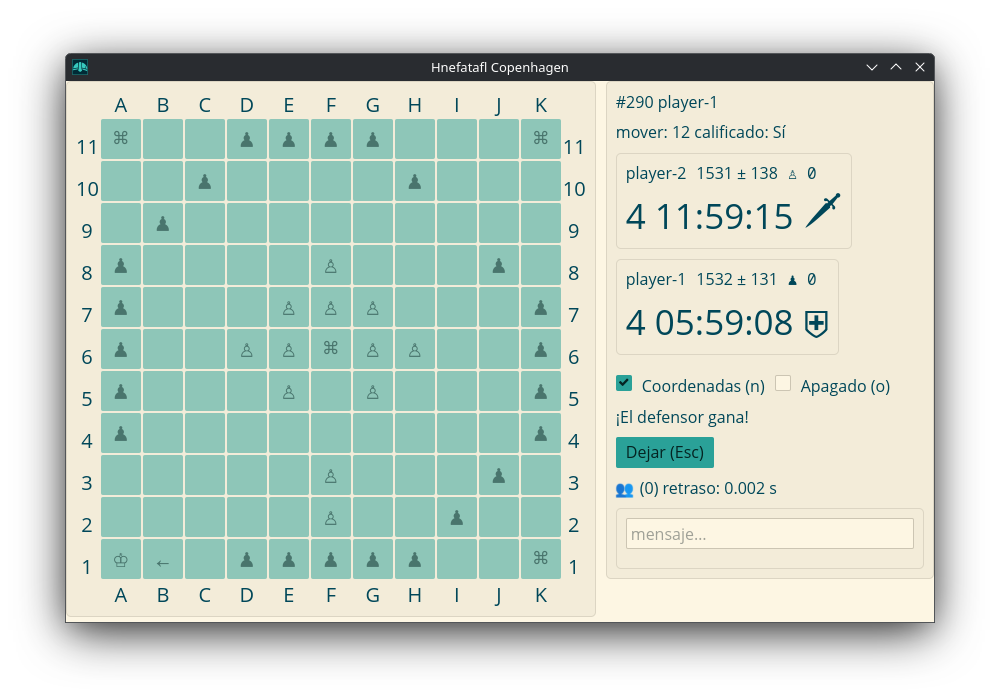
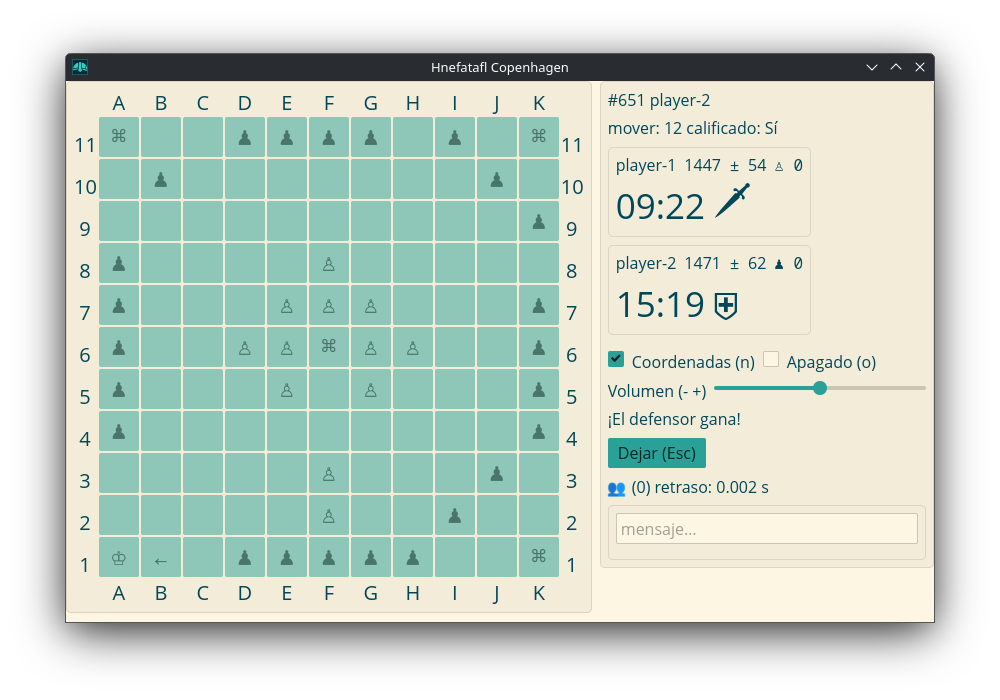
Update the screenshots.

Changed region(s): [[0.062, 0.12, 0.93, 0.87], [0.806, 0.39, 0.837, 0.42], [0.062, 0.3, 0.093, 0.33]]

diff --git a/website/src/README.md b/website/src/README.md
@@ -1,4 +1,4 @@
-![Hnefatafl Board](images/hnefatafl.png)
+![Hnefatafl Board](screenshots/runic_game.png)
 
 <div id="google_translate_element"></div>
 <script type="text/javascript" src="//translate.google.com/translate_a/element.js?cb=googleTranslateElementInit"></script>
